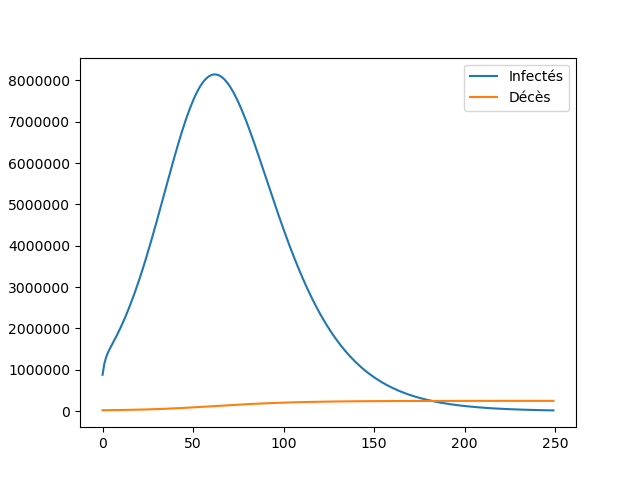
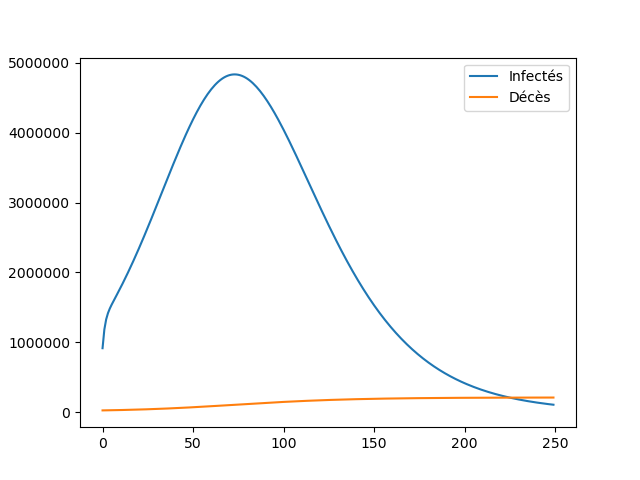
24/4

diff --git a/scire.py b/scire.py
@@ -8,11 +8,11 @@ import functools
 #Sain Contaminé Infecté Rétabli Etendu
 class SCIRE:
 
-    def __init__(self, S0 = 1, C0 = 0, I0 = 0, r0 = 3.3, v = 5.1, lmbda = 15, mu = 0.005):
+    def __init__(self, S0 = 1, C0 = 0, I0 = 0, R0 = 0, r0 = 3.3, v = 2, lmbda = 15, mu = 0.005):
         self.S = S0
         self.C = C0
         self.I = I0
-        self.R = 0
+        self.R = R0
         self.DC = 0
         self.beta = r0 / (lmbda / v)
         self.v = v
@@ -48,12 +48,13 @@ class SCIRE:
 
 if __name__ == '__main__':
     nbfrench = 67000000
-    I0 = 10 / nbfrench #Taux Infection
-    C0 = I0 * 4 #Taux Contaminé
+    DC15 = 10
+    TxNotDetected = 4
+    I0 = DC15 / nbfrench #Taux Infection
+    C0 = I0 * TxNotDetected #Taux Contaminé
     S0 = 1 - I0 - C0 #Taux Sain
-    beta = 0.22
-    lmbda = 15 # Durée d'infection
-    v = 2 # Nb incubation non contagieux
+    lmbda = 15 # Durée d'infection contagieuse
+    v = 2 # Durée incubation non contagieux
     R0 = 3.3
     beta  = R0 / lmbda
     print(beta)
@@ -71,13 +72,13 @@ if __name__ == '__main__':
     plt.show()
 
     # Confinement
-    I0 = 2281 * 10 / nbfrench #Taux Infection
-    C0 = I0 * 6 #Taux Contaminé
+    DC45 = 2281
+    I0 = (DC45 / mu) / nbfrench #Taux Infection
+    TxNotDetected = 6
+    C0 = I0 * TxNotDetected #Taux Contaminé
     S0 = 1 - I0 - C0 #Taux Sain
     scire = SCIRE(S0, C0, I0, r0=0.5,v=v,lmbda=lmbda,mu=mu)
     scires = scire.compute(91-45)
-    ctot = 1 - np.array([x.S for x in scires])
-    c = np.array([x.C for x in scires])
     i = np.array([x.I for x in scires])
     dc = np.array([x.DC for x in scires]) + 2281 / nbfrench
     plt.plot(i * nbfrench, label="Infectés")
@@ -86,10 +87,14 @@ if __name__ == '__main__':
     plt.show()
 
     # Déconfinement
-    C0 = ((23000 * 100) - 180000) / nbfrench  # Taux Contaminé
-    I0 = C0 / 6  # Taux Infection
+    DC128 = 23000
+    R128 = 180000
+    detectionrate = 0.5 # 1 0.5 0.1
+    summerrate = 0.5 # 1 0.5 0.1
+    C0 = ((DC128 / mu) - R128) / nbfrench * detectionrate
+    I0 = C0 / TxNotDetected # Taux Infection
     S0 = 1 - I0 - C0  # Taux Sain
-    scire = SCIRE(S0, C0, I0, r0=1,v=v,lmbda=lmbda,mu=mu) #R0,0.01,R0*0.1,1
+    scire = SCIRE(S0, C0, I0, r0=R0 * detectionrate * summerrate,v=v,lmbda=lmbda,mu=mu) #R0,0.01,R0*0.1,1
     scires = scire.compute(250)
     ctot = 1 - np.array([x.S for x in scires])
     c = np.array([x.C for x in scires])

diff --git a/readme.md b/readme.md
@@ -45,12 +45,12 @@
     <li>0.3 millions de personnes ayant été infectées</li>
     <li>Taux d'infection de 3%</li>
 </ul>
-<p>Au déconfinement, je propose 4 scénarios
-<p>Scénario optimiste: Comme le SRAS et comme le propose le professeur Raoult, le virus disparait, R=0.01
+<p>Au déconfinement, je propose 4 scénarios, pour celà j'ai modifié SCIRE pour ajouter un taux de détection et un taux d'atténuation dû à l'éré R = R * (1 - DetectionRate) * SummerRate
+<p>Scénario optimiste: Comme le SRAS et comme le propose le professeur Raoult, le virus disparait, R = R0 * 0.1 * 0.1 = 0.03
     <ul>
-        <li>D'après le modèle SCIRE, un pic d'infection très bref, puis le virus disparait assez rapidement à J+50</li>
-        <li>D'après le modèle ML, le virus disparait immédiatement</li>
-        <li>Entre 23000 et 27000 décès au total</li>
+        <li>Un petit pic arrive à J+5</li>
+        <li>Le virus s'éteint entre 0 et 50 jours</li>
+        <li>23000 décès au total</li>
     </ul>
     <img src="data/figured1.png">
 <p>Scénario pessimiste: le confinement est un échèc, R=R0, peu probable car ne se produit pas ailleurs dans le monde
@@ -59,13 +59,13 @@
         <li>40000 décès au total avec reconfinement, 500000 sans</li>
     </ul>
     <img src="data/figured2.png">
-<p>Scénario médian: les mesures de protection fonctionnent avec 90% de détection, isolement des patients I, protections, un été protecteur, R=R0*0.1
+<p>Scénario médian: les mesures de protection fonctionnent avec 90% de détection, isolement des patients I, protections, un été protecteur, R=R0*0.1*0.5=0.16
     <ul>
         <li>Une petite reprise rapide, un été clément</li>
-        <li>Un second pic modeste à l'automne, <40000 décès au total sur 250 jours</li>
+        <li>Un second pic modeste à l'automne, entre 24000 et 40000 décès en fonction de l'intensité du 2ème pic</li>
     </ul>
     <img src="data/figured3.png">
-<p>Scénario médian-pessimiste: les mesures de protection fonctionnent moyennement ou déconfinement trop rapide, R = 1
+<p>Scénario médian-pessimiste: les mesures de protection fonctionnent moyennement ou déconfinement trop rapide, R=R0*0.5*0.5=0.83
     <ul>
         <li>Divergence entre les modèles</li>
         <li>D'après le modèle SCIRE, un second pic entre Juillet et Novembre, reconfinement possible, 200000 décès possible</li>
@@ -73,7 +73,7 @@
     </ul>
     <img src="data/figured4.png">
 <p>La moindre variation du paramètre R peut complètement modifier l'évolution de l'épidémie, le ML ne possède pas assez données pour être fiable, ma conclusion est donc de rester modeste</p>
-<p>Comme le montre le sud de la France et l'Afrique, les temps secs et chaud semble diminuer fortement R, donc soyons optimiste</p>
+<p>Comme le montre le sud de la France et l'Afrique, les temps ensoleillés, secs et chauds semblent diminuer fortement R, donc soyons optimiste</p>
 
 Il faudra attendre 2 à 3 ans pour atteindre l'immunité collective situé autour de 60% de la population ayant été infectée par le virus, sauf si un vaccin efficace et disponible arrive avant
 
